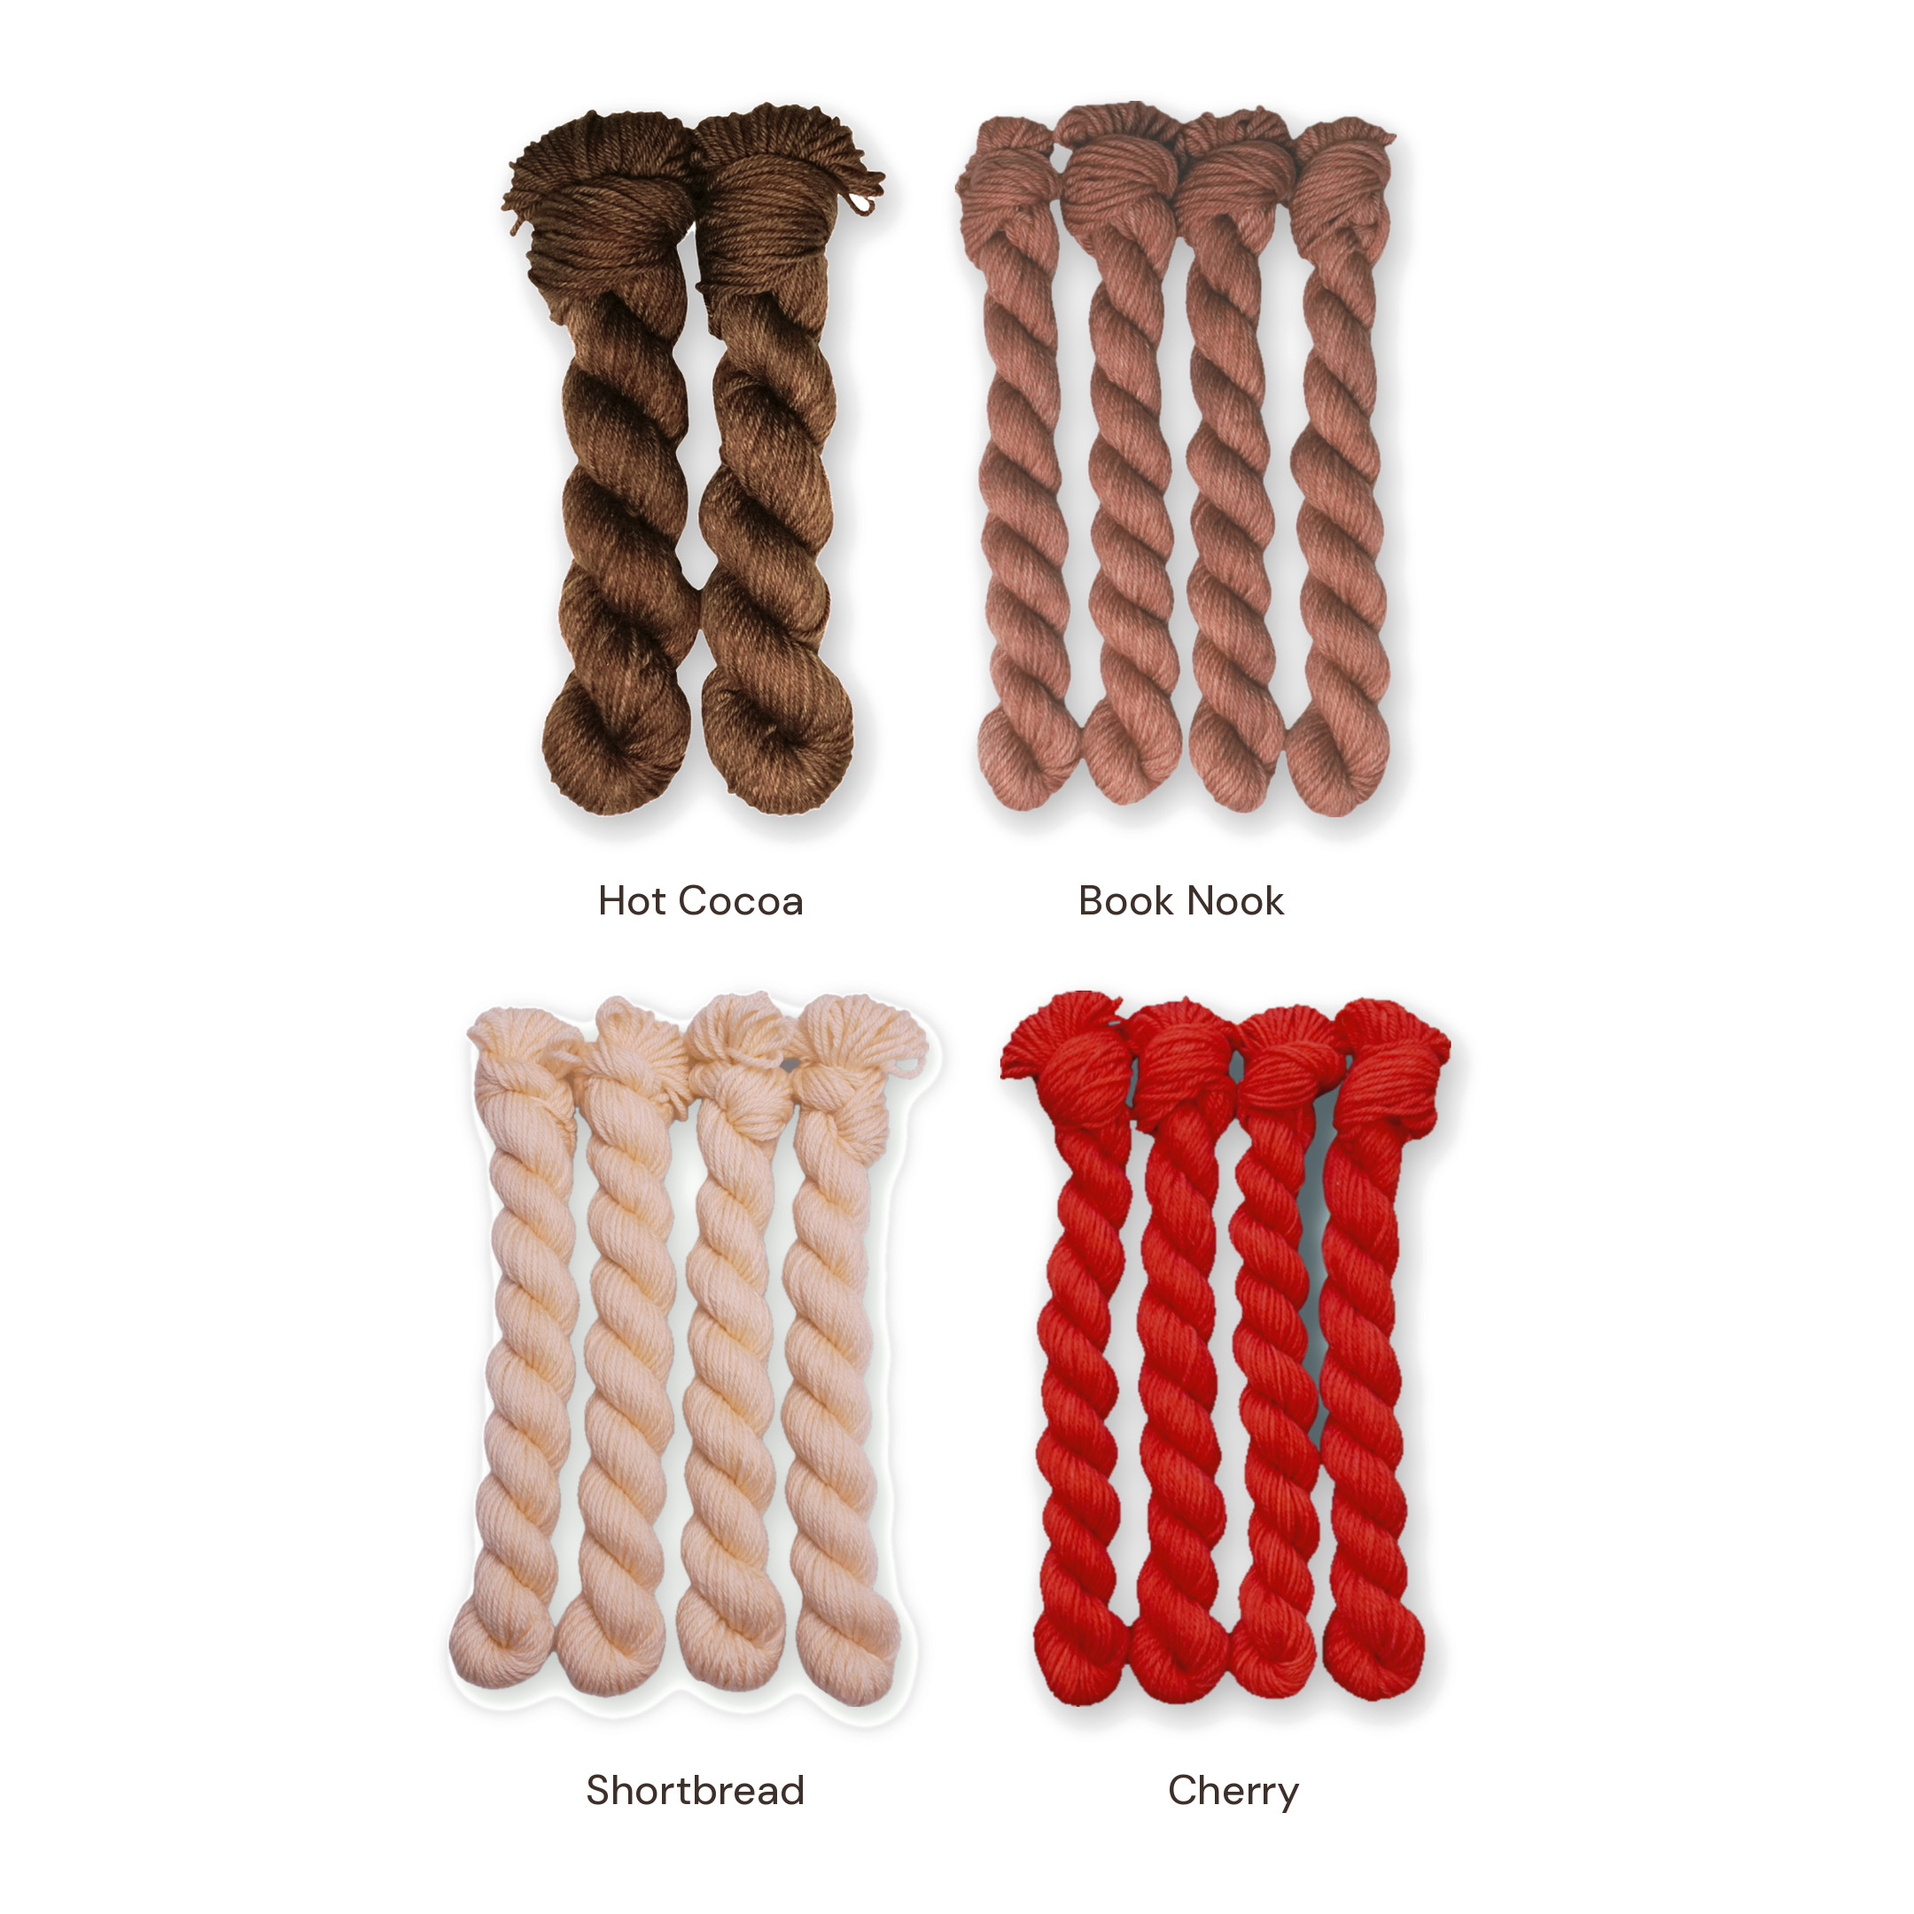
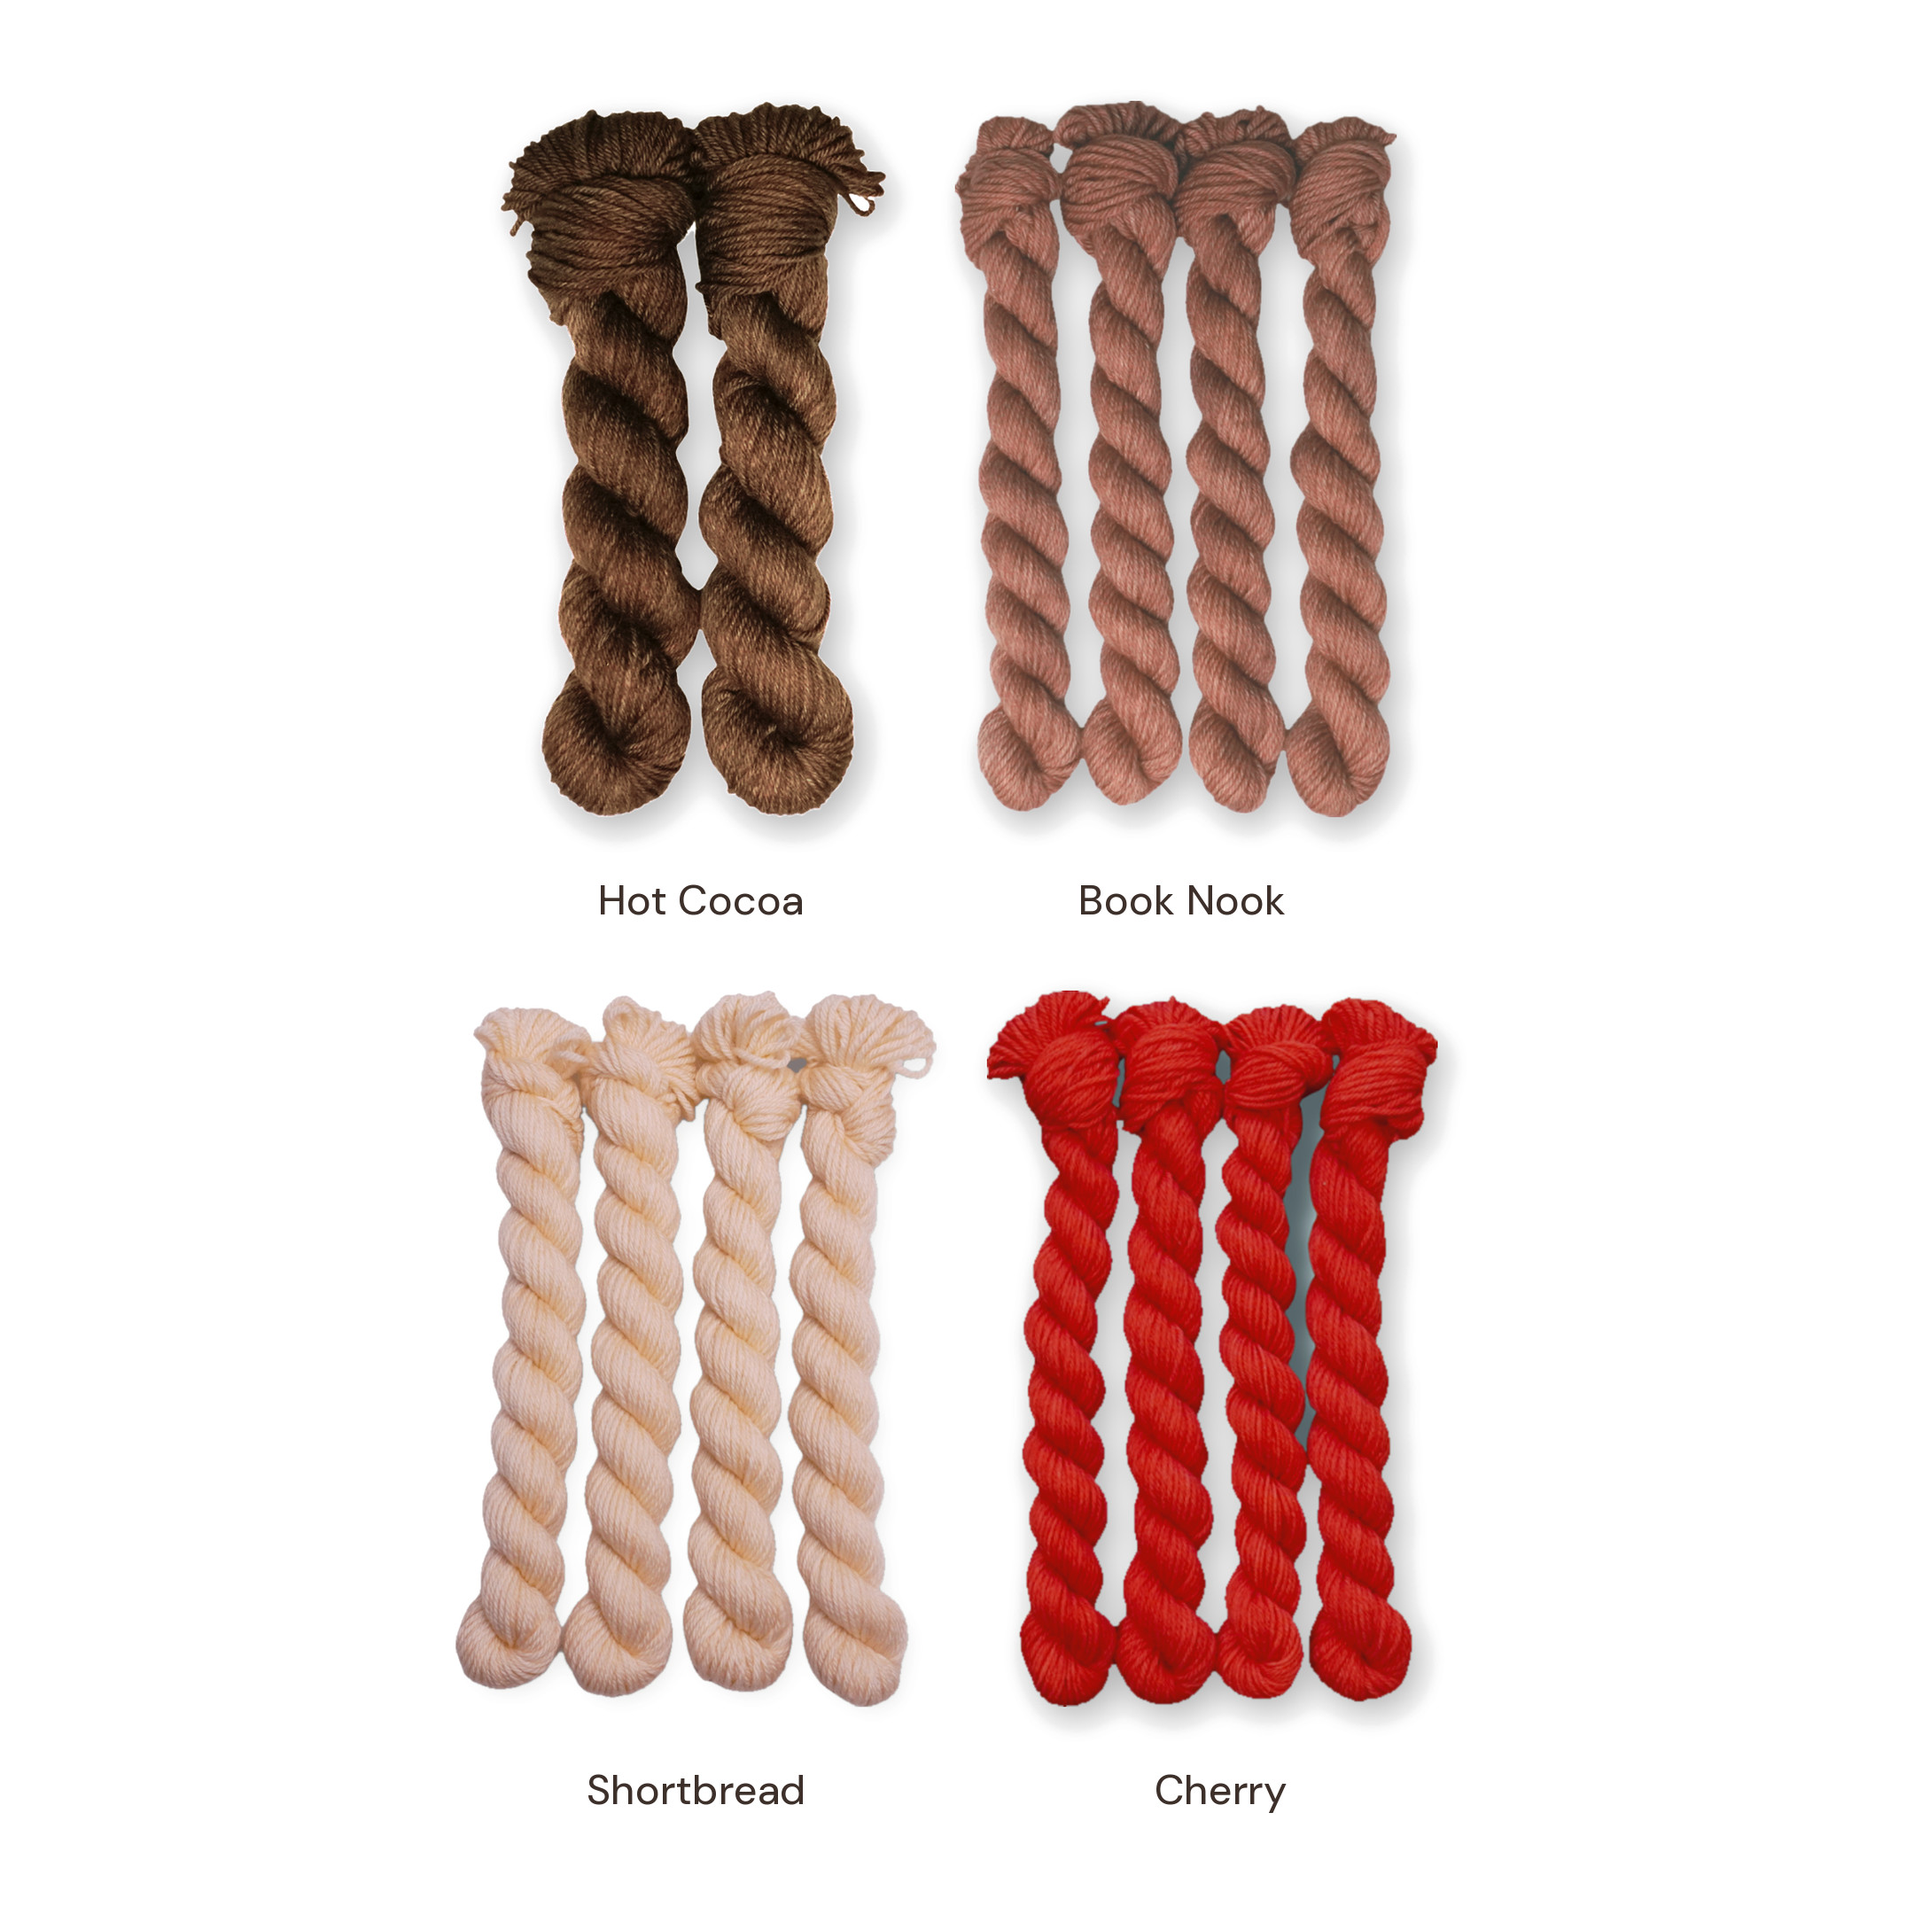
Winter set swatch photos (38) and Shortbread DK outline fix for 4 set photos
Claude-Session: https://claude.ai/code/session_017fgcqmu6FbfPkiZfqhvLxm

Changed region(s): [[0.2171, 0.4963, 0.7755, 0.8995], [0.6204, 0.9306, 0.6824, 0.9616]]

diff --git a/scripts/winter_set_photos.py b/scripts/winter_set_photos.py
@@ -2,12 +2,15 @@
 Builds each set photo from the processed Color Bar photos in color-bar/ (only resized and placed on white,
 nothing edited), names under each skein in DM Sans, layout approved by Cheryl Nov 8, 2026:
 five skeins = three over two, Sock Set = main skein over two minis, Color Quartet = two over two.
-Square 2160 x 2160 JPEG on pure white."""
+Square 2160 x 2160 JPEG on pure white.
+Swatch photos (Cheryl, Nov 8, 2026): shot "swatch" = each color's close-up in a circle, same layouts, shown first on each listing."""
 import json, os, re, sys
 from PIL import Image, ImageChops, ImageDraw, ImageFont
 ROOT = os.path.dirname(os.path.dirname(os.path.abspath(__file__)))
 CB = os.path.join(ROOT, 'color-bar')
-OUT = os.path.join(ROOT, 'winter-sets')
+OUT = os.environ.get('WINTER_OUT', os.path.join(ROOT, 'winter-sets'))
+# Set-photo-only replacements for a Color Bar photo (e.g. an unlabeled mini photo): sources/<slug>-<base>-<shot>.png
+SRC = os.environ.get('WINTER_SRC', os.path.join(ROOT, 'winter-sets', 'sources'))
 FONT = os.path.expanduser('~/.fonts/DMSans[opsz,wght].ttf')
 INK = (61, 47, 42)
 S = 2160
@@ -21,8 +24,21 @@ def font(sz, wght=450):
     except Exception: pass
     return f
 
+def swatch(color, base):
+    """Color swatch: the color's own close-up photo (approved colors), center crop in a circle on white."""
+    im = Image.open(f'{CB}/{slug(color)}/{slug(color)}-{base}-5-closeup.png').convert('RGB')
+    s = min(im.size); c = int(s * 0.86); l = (im.width - c) // 2; t = (im.height - c) // 2
+    im = im.crop((l, t, l + c, t + c)).resize((900, 900), Image.LANCZOS)
+    m = Image.new('L', (3600, 3600), 0); ImageDraw.Draw(m).ellipse((8, 8, 3592, 3592), fill=255)
+    out = Image.new('RGB', (900, 900), (255, 255, 255)); out.paste(im, (0, 0), m.resize((900, 900), Image.LANCZOS))
+    return out
+
 def load(color, base, shot):
-    im = Image.open(f'{CB}/{slug(color)}/{slug(color)}-{base}-{shot}.png').convert('RGB')
+    if shot == 'swatch':
+        return swatch(color, base)
+    alt = f'{SRC}/{slug(color)}-{base}-{shot}.png'
+    path = alt if os.path.exists(alt) else f'{CB}/{slug(color)}/{slug(color)}-{base}-{shot}.png'
+    im = Image.open(path).convert('RGB')
     # lift the faint near-white halo to pure white so no crop edges show (shadow core untouched)
     L = im.convert('L')
     t = L.point(lambda v: 0 if v < 238 else (255 if v >= 251 else int((v - 238) / 13 * 255)))

diff --git a/scripts/clean_outline.py b/scripts/clean_outline.py
@@ -1,0 +1,22 @@
+"""Remove a grey/greenish cut-out outline and old grey shadow around yarn (background only, yarn untouched),
+then add the plain light shadow used on the other Color Bar photos. usage: clean_outline.py src out"""
+import sys, numpy as np
+from PIL import Image, ImageFilter
+src, out = sys.argv[1:3]
+x = np.asarray(Image.open(src).convert('RGB')).astype(float)
+mx, mn = x.max(2), x.min(2)
+chroma = mx - mn
+bg = ((chroma <= 5) & (mn >= 190)) | ((x[..., 1] >= x[..., 0]) & (x[..., 1] >= x[..., 2]) & (mn >= 228))
+bgi = Image.fromarray((bg * 255).astype(np.uint8)).filter(ImageFilter.MaxFilter(3)).filter(ImageFilter.MinFilter(3))
+bg = np.asarray(bgi) > 127
+yarn = ~bg
+# keep only big connected yarn regions (drop specks)
+alpha = Image.fromarray((yarn * 255).astype(np.uint8)).filter(ImageFilter.GaussianBlur(0.8))
+a = np.asarray(alpha).astype(float) / 255
+S = x.shape[0]
+sh = Image.fromarray((yarn * 255).astype(np.uint8))
+sh = sh.transform(sh.size, Image.AFFINE, (1, 0, -10, 0, 1, -12)).filter(ImageFilter.GaussianBlur(14))
+s = np.asarray(sh).astype(float) / 255 * 0.16
+base = 255 * (1 - s[..., None]) + np.array([150, 145, 142]) * s[..., None]
+o = x * a[..., None] + base * (1 - a[..., None])
+Image.fromarray(np.clip(o, 0, 255).astype(np.uint8)).save(out)

diff --git a/README.md b/README.md
@@ -18,3 +18,5 @@ Processed Color Bar product photos used on hypnoticyarn.com.
 - `winter-sets/<palette>/<palette>-<fingering|dk>-<mini|50g|100g>-set.jpg` (Winter palette sets) and `winter-sets/<name>-winter-<sock-set|color-quartet>-<fingering|dk>.jpg`
 - Made by `scripts/winter_set_photos.py` from the Color Bar photos above: only resized and placed on white, each color's name under its skein. 2160 x 2160 JPEG.
 - Layout (Cheryl, Nov 8, 2026): five-skein sets three over two, Sock Sets the main skein over its two minis, Color Quartets two over two.
+- Swatch photos (Cheryl, Nov 8, 2026): `winter-sets/<palette>/<palette>-<weight>-swatches.jpg` and `winter-sets/<name>-winter-<sock-set|color-quartet>-<weight>-swatches.jpg`. Each color's own close-up photo in a circle, same layouts and names. Shown first on every Winter listing; the size photos stay linked to their set sizes.
+- `winter-sets/sources/` holds set-photo-only stand-ins for a Color Bar photo (the script uses them in place of the `color-bar/` file). Now: `shortbread-dk-3-20g.png`, the Shortbread DK minis with the gray cut-out outline and old shadow removed by `scripts/clean_outline.py` (background only, yarn untouched, plain light shadow added). The Color Bar listing photo itself is unchanged.
